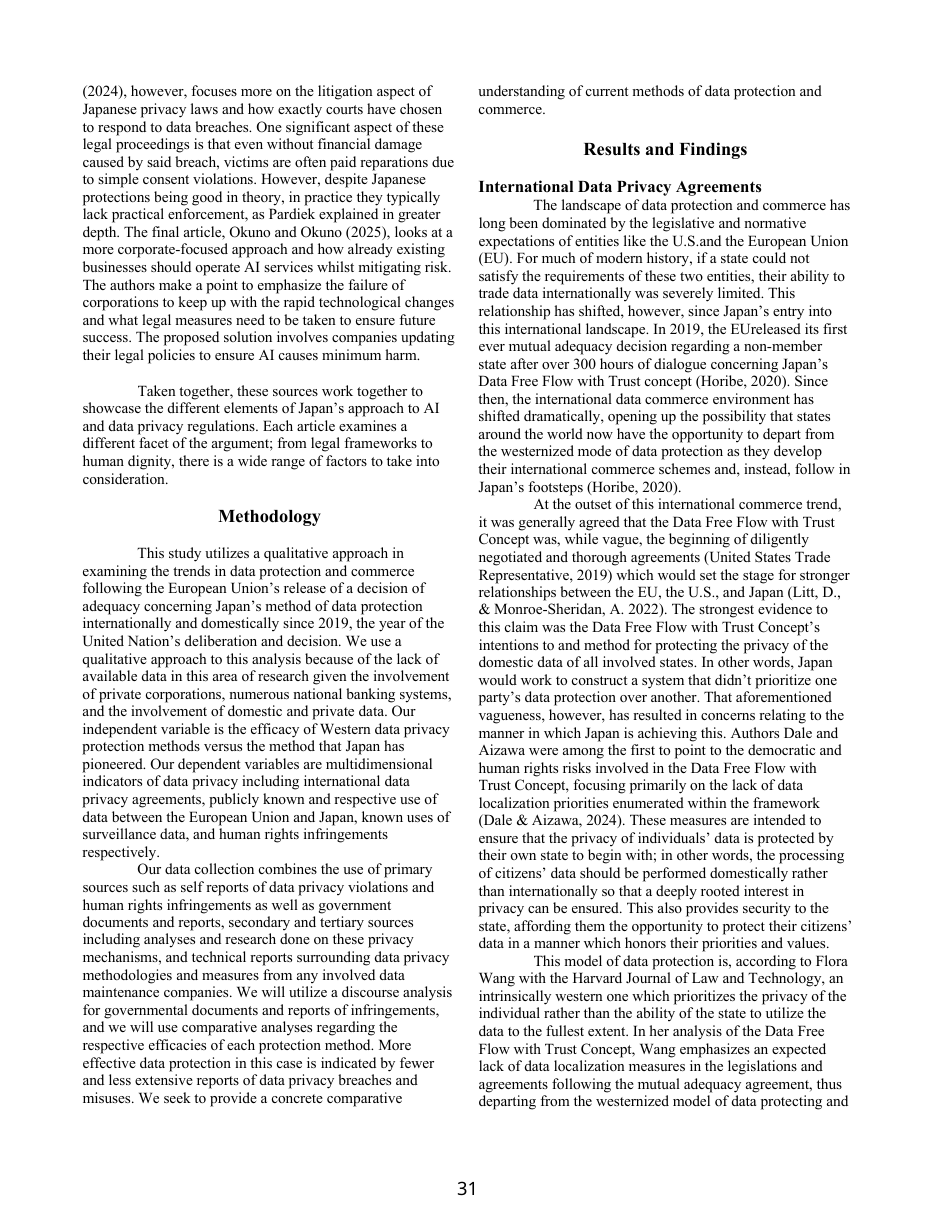
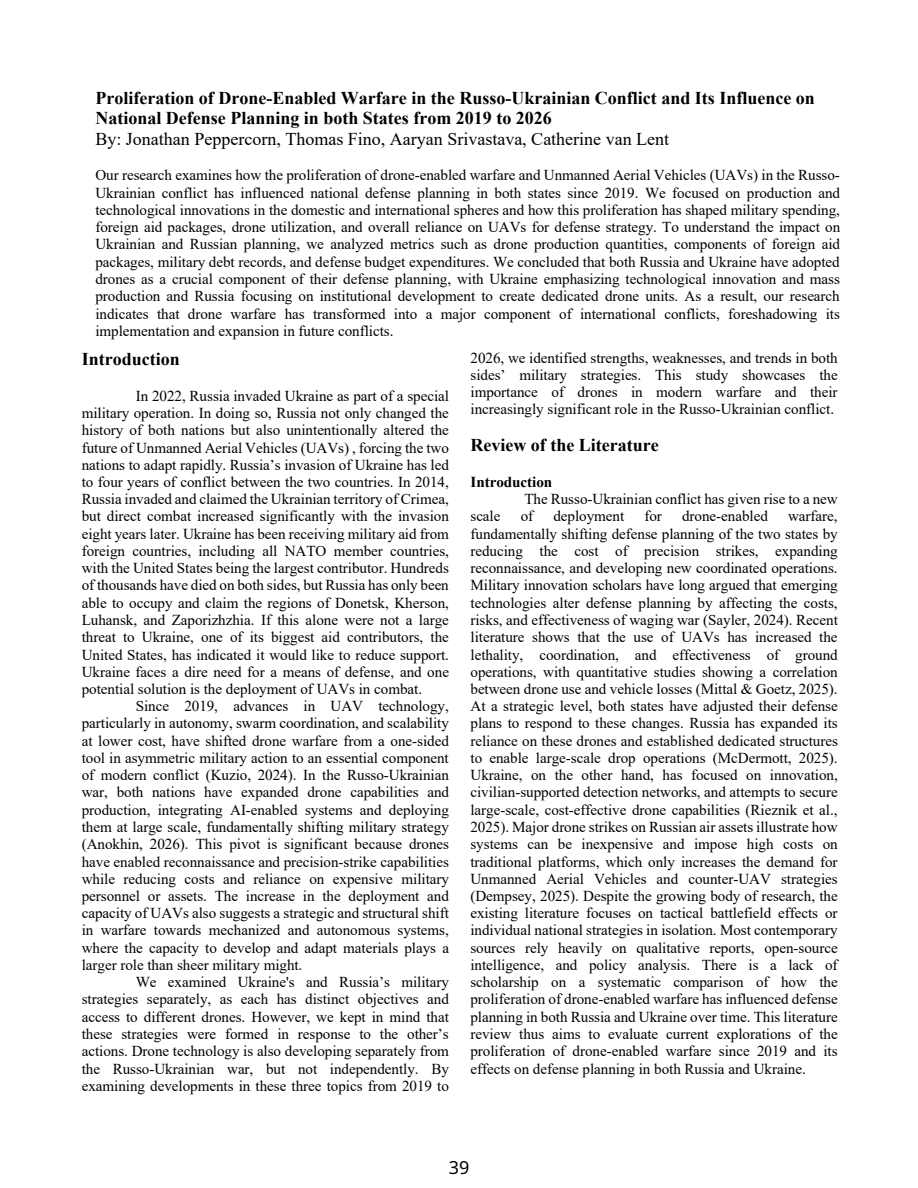
fix: use exact published drone warfare paper title

diff --git a/site/papers/index.html b/site/papers/index.html
@@ -30,15 +30,15 @@
       </header>
 
       <div class="paper-list">
-        <a class="paper-card" href="https://cdn.prod.website-files.com/6657747affa93b41147cd15b/6a9223c28e9103b92ebd163d_FINALW26-compressed.pdf#page=39" target="_blank" rel="noopener">
+        <a class="paper-card" href="https://cdn.prod.website-files.com/6657747affa93b41147cd15b/6a9223c28e9103b92ebd163d_FINALW26-compressed.pdf#page=47" target="_blank" rel="noopener">
           <div class="paper-copy">
-            <h2 class="paper-title">Nuclear Proliferation</h2>
+            <h2 class="paper-title">Proliferation of Drone-Enabled Warfare in the Russo-Ukrainian Conflict and Its Influence on National Defense Planning in both States from 2019 to 2026</h2>
             <div class="paper-year">2026</div>
-            <p class="paper-abstract">Published journal paper on nuclear proliferation. The article begins on page 39 of the journal issue; the journal is the canonical publication source.</p>
-            <div class="paper-meta"><span>▥</span><span>Published journal paper</span><span>·</span><span>Page 39</span><span class="paper-link">Open journal&nbsp;&nbsp;→</span></div>
+            <p class="paper-abstract">Examines how drone-enabled warfare has shaped Russian and Ukrainian national defense planning from 2019 to 2026 through drone production, technological innovation, military spending, and foreign aid. The study finds that Ukraine emphasizes innovation and mass production, while Russia focuses on institutional development and dedicated drone units.</p>
+            <div class="paper-meta"><span>▥</span><span>Michigan Foreign Policy Review</span><span>·</span><span>Page 39</span><span class="paper-link">Open journal&nbsp;&nbsp;→</span></div>
           </div>
-          <div class="paper-preview" aria-label="PDF preview for Nuclear Proliferation beginning on page 39">
-            <img class="paper-pdf paper-page-image" src="/research/nuclear-proliferation/nuclear-proliferation-preview.png" alt="Page 39 preview of the Nuclear Proliferation journal paper">
+          <div class="paper-preview" aria-label="PDF preview for Proliferation of Drone-Enabled Warfare in the Russo-Ukrainian Conflict and Its Influence on National Defense Planning in both States from 2019 to 2026, journal page 39">
+            <img class="paper-pdf paper-page-image" src="/research/nuclear-proliferation/nuclear-proliferation-preview.png?v=20261004" alt="Journal page 39 showing the title, authors, and abstract of Proliferation of Drone-Enabled Warfare in the Russo-Ukrainian Conflict and Its Influence on National Defense Planning in both States from 2019 to 2026">
           </div>
         </a>
 
